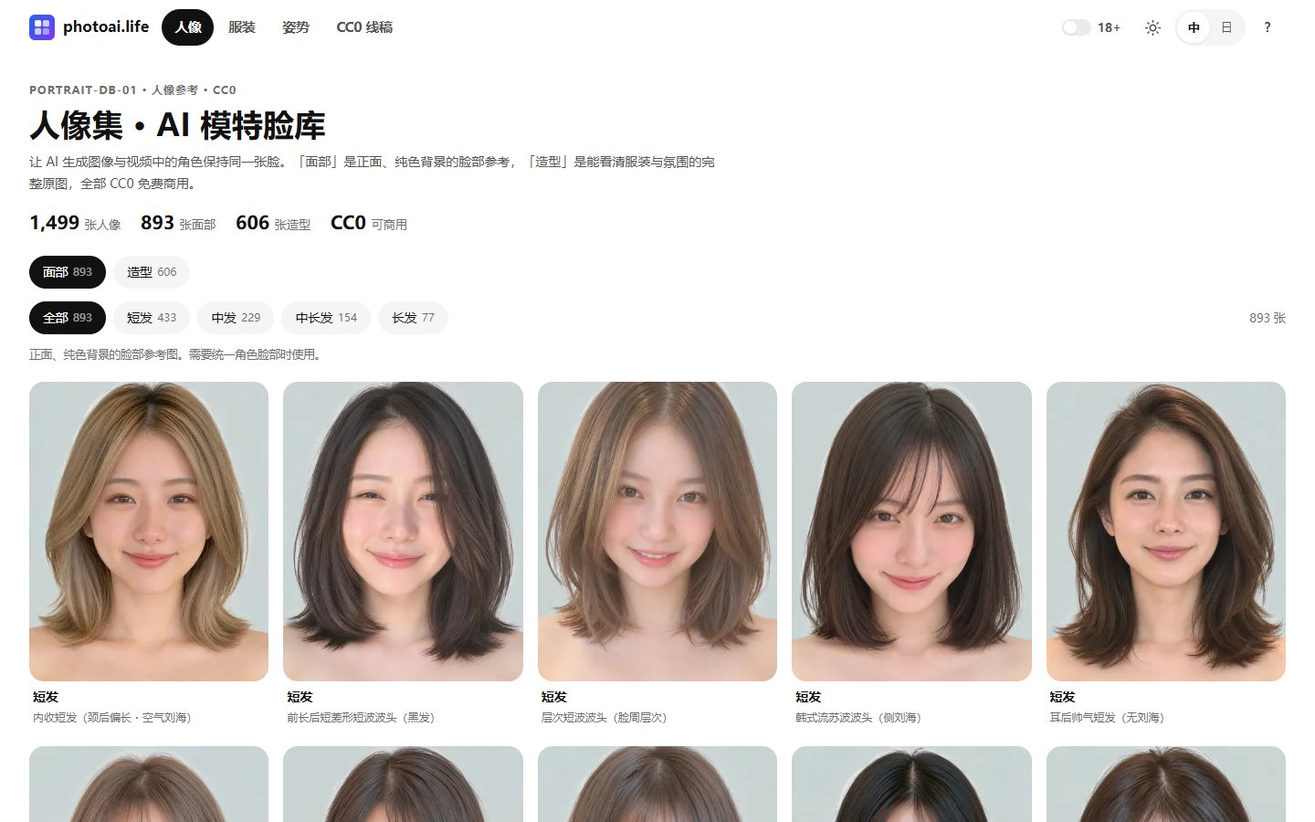
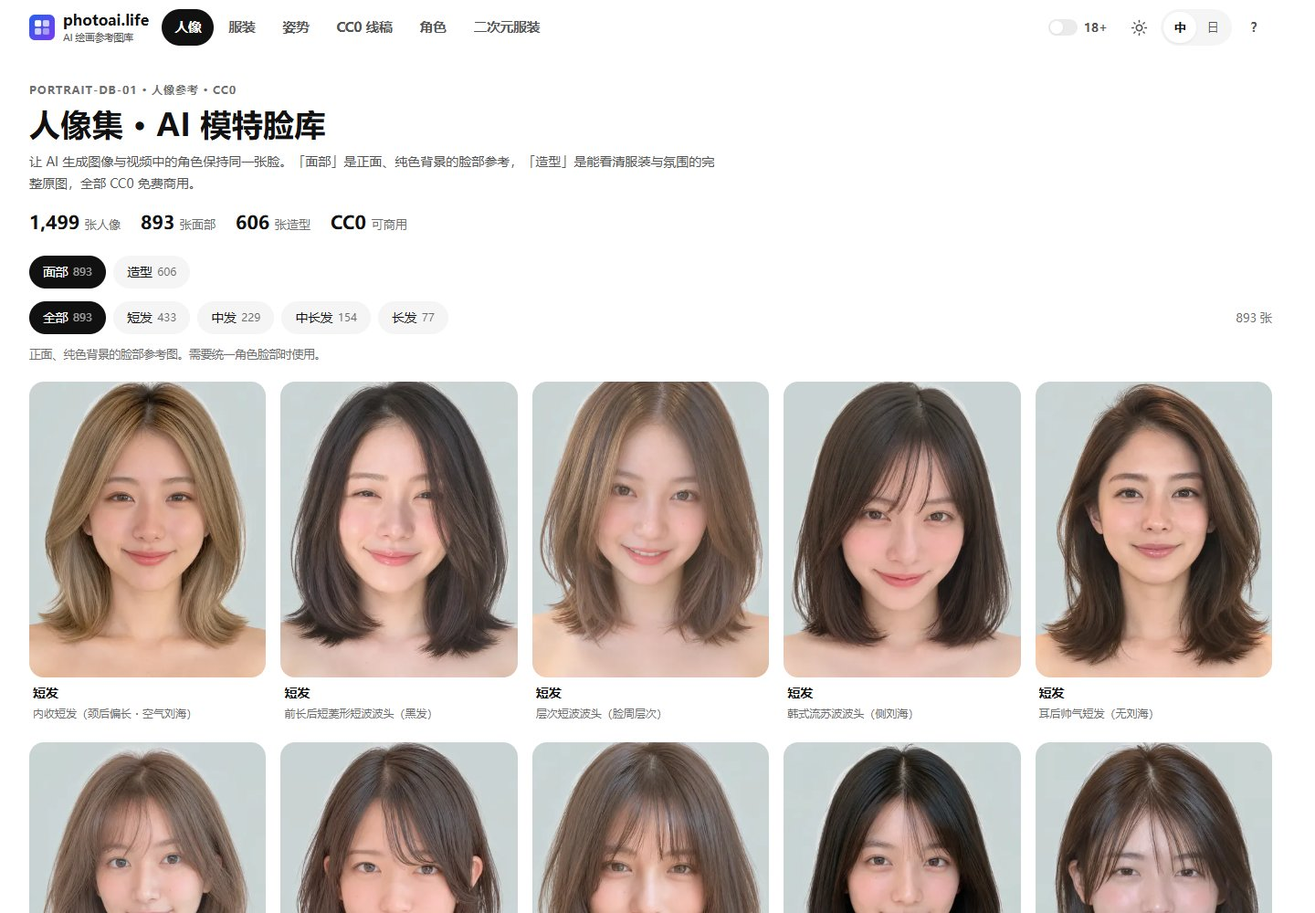
docs: refresh all gallery screenshots and multilingual references
Capture the current public interfaces with 18+ disabled and no added blur. Refresh the hub and existing galleries, add Shisei, Character and Anime Costume views, and keep standalone screenshot sources in docs.

Update Chinese, English and Japanese catalog totals, source credits, remote-image behavior and deployment wording. Clarify the distinction between UI screenshots and gallery image assets.

diff --git a/README_ja.md b/README_ja.md
@@ -6,7 +6,7 @@
 
 ポートレート · ポーズ（線画とデプス） · 衣装 · CC0 ポーズ線画 · キャラ参考画像集 · アニメ衣装集 · 中国語 / 日本語 · ライト / ダーク
 
-ローカル画像ファイル 15,241 個（サイズ違いを含む）。キャラDB は基本 843 件と髪色違い 184 件を別に収録し、リモート画像はファイル総数に含めません。
+ローカル画像ファイル 15,241 個（サイズ違いを含む）。キャラDB は基本 843 件と髪色違い 184 件、アニメ衣装集は 1,320 着（初期表示 984 着）を別に収録。両リモートギャラリーの画像はファイル総数に含めません。
 
 [![CI](https://github.com/Brilliant666/ai-image-gallery/actions/workflows/ci.yml/badge.svg)](https://github.com/Brilliant666/ai-image-gallery/actions/workflows/ci.yml)
 [![online](https://img.shields.io/badge/online-photoai.life-2563eb?style=flat-square)](https://photoai.life/)
@@ -26,7 +26,7 @@
 ![トップページ](docs/screenshots/hub-light.jpg)
 
 <details>
-<summary>📷 その他のスクリーンショット：ポートレート・ポーズ・デプス・衣装</summary>
+<summary>📷 全ギャラリー：ポートレート・ポーズ・デプス・衣装・Shisei・キャラDB・アニメ衣装</summary>
 
 ![ポートレート一覧](docs/screenshots/portrait-grid.jpg)
 
@@ -42,7 +42,15 @@
 
 ![衣装 ライトボックス](docs/screenshots/costume-lightbox.jpg)
 
-スクリーンショットは UI 説明のため公開サイトから撮影したものです。素材の著作権は各原作者に帰属します。スクリーンショットから素材を切り出して利用しないでください。
+![Shisei CC0 線画](docs/screenshots/shisei-grid.jpg)
+
+![キャラDB の髪型とカードごとの髪色](docs/screenshots/character-grid.jpg)
+
+![アニメ衣装集の一般公開目録](docs/screenshots/costume-anime-grid.jpg)
+
+<img src="docs/screenshots/costume-anime-mobile.jpg" alt="アニメ衣装集のモバイル表示" width="390">
+
+2026-11-02 にローカルビルドのプレビューから撮影。18+ を無効にした一般公開内容を表示し、追加のぼかしは施していません。公開サイトのデプロイ状況を示すものではありません。素材の著作権は各原作者に帰属します。スクリーンショットから素材を切り出して利用しないでください。範囲と更新方法は [スクリーンショット説明](docs/screenshots/README.md) を参照してください。
 
 </details>
 
@@ -79,11 +87,11 @@
 
 別の出典から 1,320 着、8 カテゴリ・86 タグを収録。同じ番号でも既存の衣装集 1,407 着とは異なる目録です。ランジェリー・セクシーの分類は年齢確認後に表示し、静的ページには掲載しません。画像は元サイトから読み込み、一括取得・ミラーは行いません。
 
-[独立公開リポジトリ](https://github.com/Brilliant666/ai-costume-anime-gallery-cn) に静的ギャラリー、ソース、本サイトへのリンクを用意します。[出典条件](sites/costume-anime/NOTICE.md) と [エクスポート手順](docs/COSTUME_ANIME_STANDALONE.md) を参照してください。新入口はこの PR のマージ後、別途デプロイして公開します。
+[独立公開リポジトリ](https://github.com/Brilliant666/ai-costume-anime-gallery-cn) に静的ギャラリー、ソース、本サイトへのリンクを用意します。[出典条件](sites/costume-anime/NOTICE.md) と [エクスポート手順](docs/COSTUME_ANIME_STANDALONE.md) を参照してください。リポジトリ更新と本番デプロイは別工程です。公開版は実際のデプロイ内容に依存します。
 
 ## クイックスタート
 
-このリポジトリに素材画像ファイルは含まれていません。`tools/fetch.py` はローカル配信サイトの画像を取得しますが、キャラDB とアニメ衣装集（`imageMode: "remote"`）は明示的にスキップします。サムネイル・原画像・線画のダウンロードやミラーは行いません。ページ・元データ・manifest はローカルに保持し、画像は元サイトの URL を直接参照するため `file://` でも接続が必要です。**Python 3.8+** が必要です。ライトボックス用の中サイズ画像を作る `tools/mid.py` だけは Pillow（`pip install pillow`）も必要で、他のスクリプトは標準ライブラリのみで動きます。
+ギャラリーの素材画像は梱包しません。`docs/screenshots/` は UI 紹介用のスクリーンショットのみです。`tools/fetch.py` はローカル配信サイトの画像を取得しますが、キャラDB とアニメ衣装集（`imageMode: "remote"`）は明示的にスキップします。サムネイル・原画像・線画のダウンロードやミラーは行いません。ページ・元データ・manifest はローカルに保持し、画像は元サイトの URL を直接参照するため `file://` でも接続が必要です。**Python 3.8+** が必要です。ライトボックス用の中サイズ画像を作る `tools/mid.py` だけは Pillow（`pip install pillow`）も必要で、他のスクリプトは標準ライブラリのみで動きます。
 
 ```bash
 git clone https://github.com/Brilliant666/ai-image-gallery.git
@@ -121,7 +129,7 @@ python tools/serve.py      # http://127.0.0.1:8080/ でプレビュー
 
 ## 画像の読み込み
 
-ローカル配信ギャラリーは通常 3 段階です。グリッドはサムネイル、ライトボックスは中サイズ、原寸はダウンロード時のみ使います。キャラDB は元サイトのサムネイル・原画像・線画を参照し、`tiers: []` と `imageDirs: []` で取得・画像パッケージ化を無効にします。
+ローカル配信ギャラリーは通常 3 段階です。グリッドはサムネイル、ライトボックスは中サイズ、原寸はダウンロード時のみ使います。キャラDB は元サイトのサムネイル・原画像・線画を参照します。アニメ衣装集は元サイトのサムネイル・プレビュー・PNG リンクを使います。両方とも `tiers: []` と `imageDirs: []` でローカル取得と画像パッケージ化を無効にします。
 
 | 段階 | ポートレート | ポーズ | デプス | 衣装 |
 | --- | ---: | ---: | ---: | ---: |
@@ -129,7 +137,7 @@ python tools/serve.py      # http://127.0.0.1:8080/ でプレビュー
 | 中サイズ | 約 150 KB | 約 33 KB | 約 10 KB | 約 90 KB |
 | 原寸 | 約 3.2 MB | 約 450 KB | 約 95 KB | 約 1 MB |
 
-以下の先読みと中サイズ画像の処理はローカル配信ギャラリーに適用します。キャラDB の詳細は元サイトの原画像を直接読み込みます。
+以下の先読みと中サイズ画像の処理はローカル配信ギャラリーに適用します。キャラDB の詳細は元サイトの原画像を直接読み込みます。アニメ衣装集は選択中のプレビューだけを読み込み、隣の大画像を先読みしません。原寸 PNG はリンクから元サイトで開きます。
 
 - ライトボックスは鮮明なサムネイルをすぐ表示し、中サイズが届いたらフェードインします。画像を切り替えると前の画像はすぐ消えます。
 - カードに 120 ms ホバー、タップ開始、キーボードフォーカスで中サイズを先読みします。開いた後は前後の画像も先読みします。
@@ -165,7 +173,7 @@ ai-image-gallery/
 └── docs/               # ドキュメントとスクリーンショット
 ```
 
-画像は git に入れません。6.8 GB のバイナリは clone のたびに重く、多くのサイトのライセンスでも認められていません。`release.py` は 20,751 個の画像ファイルを `dist/` にハードリンクするため、同じファイルシステム上なら容量は増えません。
+ギャラリーの素材画像は git に入れません（文書の UI スクリーンショットは除く）。6.8 GB のバイナリは clone を重くし、多くの出典では画像の再配布も禁じています。`release.py` は 20,751 個の画像ファイルを `dist/` にハードリンクするため、同じファイルシステム上なら容量は増えません。
 
 ## ドキュメント
 
@@ -180,6 +188,6 @@ ai-image-gallery/
 | コード：`tools/`、`hub/`、`shared/`、各サイトの `scripts/`、`index.html` 内の HTML/CSS/JS | [MIT](LICENSE) |
 | 画像素材 | サイトごとに異なる。`sites/<id>/NOTICE.md` を参照 |
 | 本サイト独自の中国語訳（`data/` とキャラDB の中国語名称表） | CC BY 4.0 |
-| キャラDB の元の目録データと画像 | 原作者の条件が適用され、本サイトでは再ライセンスしません。[NOTICE](sites/character/NOTICE.md) を参照 |
+| キャラDB とアニメ衣装集の元の目録フィールド・キーワード・画像 | 原作者の条件が適用され、本サイトでは再ライセンスしません。[キャラDB](sites/character/NOTICE.md) · [アニメ衣装集](sites/costume-anime/NOTICE.md) を参照 |
 
-素材は各元サイトによるものです。ポートレート集：[あぎ](https://x.com/agi_aibusi)（[元サイト](https://ai-portrait-gallery.pages.dev/)）。ポーズ集・デプス ポーズ集・衣装集：[ギア](https://x.com/giaaibusi)（[ポーズ](https://ai-pose-gallery.pages.dev/) · [デプス](https://ai-pose-depth-gallery.pages.dev/) · [衣装](https://ai-costume-gallery.pages.dev/)）。Shisei の線画は [wquguru/shisei](https://github.com/wquguru/shisei)（CC0）より。キャラDB は [たき AI](https://x.com/taki_auto) の [キャラ組み立てDB](https://charadb-2fi.pages.dev/) を出典とし、画像は元サイトからのみ読み込みます。本プロジェクトは個人学習目的の中国語インデックスです。
+素材は各元サイトによるものです。ポートレート集：[あぎ](https://x.com/agi_aibusi)（[元サイト](https://ai-portrait-gallery.pages.dev/)）。ポーズ集・デプス ポーズ集・衣装集・アニメ衣装集：[ギア](https://x.com/giaaibusi)（[ポーズ](https://ai-pose-gallery.pages.dev/) · [デプス](https://ai-pose-depth-gallery.pages.dev/) · [衣装](https://ai-costume-gallery.pages.dev/) · [アニメ衣装](https://ai-costume-anime-gallery.pages.dev/)）。Shisei の線画は [wquguru/shisei](https://github.com/wquguru/shisei)（CC0）より。キャラDB は [たき AI](https://x.com/taki_auto) の [キャラ組み立てDB](https://charadb-2fi.pages.dev/) を出典とし、画像は元サイトからのみ読み込みます。本プロジェクトは個人学習目的の中国語インデックスです。

diff --git a/README_en.md b/README_en.md
@@ -6,7 +6,7 @@
 
 Portrait · Pose (line art and depth) · Costume · CC0 Pose Line Art · Character · Anime Costume · Chinese / Japanese UI · Light / Dark
 
-15,241 locally hosted image files (including size variants); Character adds 843 base entries and 184 hair-color variants. Its remote images are excluded from the file total.
+15,241 locally hosted image files (including size variants); Character adds 843 base entries and 184 hair-color variants; Anime Costume adds 1,320 outfits (984 visible by default). Images from both remote galleries are excluded from the file total.
 
 [![CI](https://github.com/Brilliant666/ai-image-gallery/actions/workflows/ci.yml/badge.svg)](https://github.com/Brilliant666/ai-image-gallery/actions/workflows/ci.yml)
 [![online](https://img.shields.io/badge/online-photoai.life-2563eb?style=flat-square)](https://photoai.life/)
@@ -26,7 +26,7 @@ Portrait · Pose (line art and depth) · Costume · CC0 Pose Line Art · Charact
 ![Hub](docs/screenshots/hub-light.jpg)
 
 <details>
-<summary>📷 More screenshots: portraits, poses, depth maps, costumes</summary>
+<summary>📷 All galleries: Portrait, Pose, Depth, Costume, Shisei, Character and Anime Costume</summary>
 
 ![Portrait grid](docs/screenshots/portrait-grid.jpg)
 
@@ -42,7 +42,15 @@ Portrait · Pose (line art and depth) · Costume · CC0 Pose Line Art · Charact
 
 ![Costume lightbox](docs/screenshots/costume-lightbox.jpg)
 
-Screenshots are taken from the live site to show the UI. The artwork belongs to its original authors; do not crop images out of the screenshots for other use.
+![Shisei CC0 line art](docs/screenshots/shisei-grid.jpg)
+
+![Character hairstyles and per-card hair colors](docs/screenshots/character-grid.jpg)
+
+![Anime Costume public catalog](docs/screenshots/costume-anime-grid.jpg)
+
+<img src="docs/screenshots/costume-anime-mobile.jpg" alt="Anime Costume mobile layout" width="390">
+
+Captured from a local build preview on 2026-11-02 with 18+ disabled and no added blur. These show the UI, not the production deployment status. The artwork belongs to its original authors; do not crop images out of the screenshots for other use. See [screenshot notes](docs/screenshots/README.md) for scope and updates.
 
 </details>
 
@@ -79,11 +87,11 @@ See [Character notes](sites/character/README.md) for usage and catalog maintenan
 
 A separate source catalog with 1,320 outfits, 8 categories and 86 translated tags. It is separate from the existing 1,407-item Costume gallery even where IDs overlap. Lingerie and sexy categories are hidden until age confirmation and excluded from all static landing pages. Images remain at the source; no batch downloader or image mirror is included.
 
-The [public standalone repository](https://github.com/Brilliant666/ai-costume-anime-gallery-cn) contains a working static gallery, source and links back to photoai.life. See [source terms](sites/costume-anime/NOTICE.md) and [export instructions](docs/COSTUME_ANIME_STANDALONE.md). The new site requires this PR to be merged and deployed separately.
+The [public standalone repository](https://github.com/Brilliant666/ai-costume-anime-gallery-cn) contains a working static gallery, source and links back to photoai.life. See [source terms](sites/costume-anime/NOTICE.md) and [export instructions](docs/COSTUME_ANIME_STANDALONE.md). Repository updates and production deployment are separate; the live version depends on the deployed release.
 
 ## Quick start
 
-This repo contains no source image files. `tools/fetch.py` downloads images for locally hosted sites and explicitly skips Character and Anime Costume (`imageMode: "remote"`); its thumbnails, originals and line art must not be downloaded or mirrored. Local pages, source data and manifests remain available, while image URLs point directly to the source and need a network connection even under `file://`. Requires **Python 3.8+**. `tools/mid.py`, which generates lightbox previews, also needs Pillow (`pip install pillow`); every other script uses only the standard library.
+This repo does not package gallery image assets; `docs/screenshots/` contains UI demonstrations only. `tools/fetch.py` downloads images for locally hosted sites and explicitly skips Character and Anime Costume (`imageMode: "remote"`); their images are loaded directly from the source, without local fetching or mirroring. Local pages, source data and manifests remain available, while image URLs point directly to the source and need a network connection even under `file://`. Requires **Python 3.8+**. `tools/mid.py`, which generates lightbox previews, also needs Pillow (`pip install pillow`); every other script uses only the standard library.
 
 ```bash
 git clone https://github.com/Brilliant666/ai-image-gallery.git
@@ -121,7 +129,7 @@ Check the result through `serve.py`, not by opening `dist/index.html` directly: 
 
 ## Image loading
 
-Locally hosted galleries normally have three tiers: thumbnails for the grid, previews for the lightbox, originals for download only. Character uses remote source thumbnails, originals and optional line art; `tiers: []` and `imageDirs: []` disable local fetching and image packaging.
+Locally hosted galleries normally have three tiers: thumbnails for the grid, previews for the lightbox, originals for download only. Character uses source-hosted thumbnails, originals and optional line art. Anime Costume uses source-hosted thumbnails, previews and PNG links. Both use `tiers: []` and `imageDirs: []` to disable local fetching and image packaging.
 
 | Tier | Portrait | Pose | Pose Depth | Costume |
 | --- | ---: | ---: | ---: | ---: |
@@ -129,7 +137,7 @@ Locally hosted galleries normally have three tiers: thumbnails for the grid, pre
 | Preview | ~150 KB | ~33 KB | ~10 KB | ~90 KB |
 | Original | ~3.2 MB | ~450 KB | ~95 KB | ~1 MB |
 
-The following preview and prefetch behavior applies to locally hosted galleries. Character loads source originals directly in its detail view.
+The following preview and prefetch behavior applies to locally hosted galleries. Character loads source originals directly in its detail view. Anime Costume loads only the selected preview, without prefetching adjacent large images; its original PNG opens through a source-site link.
 
 - The lightbox shows the sharp thumbnail at once and fades in the preview when it arrives. Switching images hides the previous one immediately.
 - Previews are prefetched after 120 ms of hover, on pointer down, or on keyboard focus; once open, the next and previous images are prefetched too.
@@ -165,7 +173,7 @@ ai-image-gallery/
 └── docs/               # documentation and screenshots
 ```
 
-Images stay out of git: 6.8 GB of binaries would make every clone huge, and most site licenses do not allow it. `release.py` hard-links 20,751 image files into `dist/`, which costs no extra disk on the same file system.
+Gallery image assets stay out of git, apart from UI screenshots in the docs: 6.8 GB of binaries would make every clone huge, and most source terms prohibit image redistribution. `release.py` hard-links 20,751 image files into `dist/`, which costs no extra disk on the same file system.
 
 ## Documentation
 
@@ -180,6 +188,6 @@ The deployment guide and adding-a-site guide are in Chinese.
 | Code: `tools/`, `hub/`, `shared/`, each site's `scripts/`, and the HTML/CSS/JS in `index.html` | [MIT](LICENSE) |
 | Images | Differs per site, see `sites/<id>/NOTICE.md` |
 | Independently written Chinese translations in `data/` and the Character name map | CC BY 4.0 |
-| Character source catalog fields and images | Original author terms; not relicensed by this repository. See [NOTICE](sites/character/NOTICE.md) |
+| Source catalog fields, keywords and images for Character and Anime Costume | Original author terms; not relicensed by this repository. See [Character](sites/character/NOTICE.md) · [Anime Costume](sites/costume-anime/NOTICE.md) |
 
-Images come from the original sites. Portrait by [あぎ](https://x.com/agi_aibusi) ([original](https://ai-portrait-gallery.pages.dev/)); Pose, Pose Depth and Costume by [ギア](https://x.com/giaaibusi) ([pose](https://ai-pose-gallery.pages.dev/) · [pose depth](https://ai-pose-depth-gallery.pages.dev/) · [costume](https://ai-costume-gallery.pages.dev/)). Shisei line art comes from [wquguru/shisei](https://github.com/wquguru/shisei) (CC0). Character comes from [たき AI](https://x.com/taki_auto)'s [キャラ組み立てDB](https://charadb-2fi.pages.dev/), with images loaded only from the source. This project is a personal Chinese-language index for learning.
+Images come from the original sites. Portrait by [あぎ](https://x.com/agi_aibusi) ([original](https://ai-portrait-gallery.pages.dev/)); Pose, Pose Depth, Costume and Anime Costume by [ギア](https://x.com/giaaibusi) ([pose](https://ai-pose-gallery.pages.dev/) · [pose depth](https://ai-pose-depth-gallery.pages.dev/) · [costume](https://ai-costume-gallery.pages.dev/) · [anime costume](https://ai-costume-anime-gallery.pages.dev/)). Shisei line art comes from [wquguru/shisei](https://github.com/wquguru/shisei) (CC0). Character comes from [たき AI](https://x.com/taki_auto)'s [キャラ組み立てDB](https://charadb-2fi.pages.dev/), with images loaded only from the source. This project is a personal Chinese-language index for learning.

diff --git a/README.md b/README.md
@@ -6,7 +6,7 @@
 
 人像 · 姿势（线稿与深度图） · 服装 · CC0 姿势线稿 · 二次元角色库 · 二次元服装库 · 中日双语 · 浅色 / 深色
 
-15,241 个本地托管图片文件（含不同尺寸）；角色库另有 843 个基础条目 + 184 个发色变体，远程图片不计入文件总数。
+15,241 个本地托管图片文件（含不同尺寸）；角色库另有 843 个基础条目 + 184 个发色变体，二次元服装库另有 1,320 套（默认显示 984 套）。两个远程图库的图片均不计入文件总数。
 
 [![CI](https://github.com/Brilliant666/ai-image-gallery/actions/workflows/ci.yml/badge.svg)](https://github.com/Brilliant666/ai-image-gallery/actions/workflows/ci.yml)
 [![online](https://img.shields.io/badge/online-photoai.life-2563eb?style=flat-square)](https://photoai.life/)
@@ -26,7 +26,7 @@
 ![入口页](docs/screenshots/hub-light.jpg)
 
 <details>
-<summary>📷 更多截图：人像、姿势、深度姿势、服装</summary>
+<summary>📷 全部图库截图：人像、姿势、深度图、服装、Shisei、角色、二次元服装</summary>
 
 ![人像集 · 网格](docs/screenshots/portrait-grid.jpg)
 
@@ -42,7 +42,15 @@
 
 ![服装集 · 灯箱](docs/screenshots/costume-lightbox.jpg)
 
-截图来自线上页面，用于演示界面。素材著作权归各原作者所有，不能从截图中裁取素材另作他用。
+![Shisei · CC0 姿势线稿](docs/screenshots/shisei-grid.jpg)
+
+![二次元角色库 · 发型与独立发色](docs/screenshots/character-grid.jpg)
+
+![二次元服装库 · 默认非成人目录](docs/screenshots/costume-anime-grid.jpg)
+
+<img src="docs/screenshots/costume-anime-mobile.jpg" alt="二次元服装库 · 手机布局" width="390">
+
+截图于 2026-11-02 从本地构建预览拍摄，展示默认关闭 18+ 的公开内容，未额外模糊处理；不表示线上部署状态。素材著作权归各原作者所有，不能从截图中裁取素材另作他用。截图范围与更新方式见 [截图说明](docs/screenshots/README.md)。
 
 </details>
 
@@ -80,11 +88,11 @@
 
 独立来源的 1,320 套二次元服装，不能与原有 1,407 套服装按相同编号合并。8 个分类、86 个英文标签使用中日双语与组合筛选，内衣和性感类默认隐藏且不进入落地页。图片始终从原站读取，目录搜索可离线使用。
 
-[独立公开库](https://github.com/Brilliant666/ai-costume-anime-gallery-cn) 提供单库源码、静态页面和返回本站的入口；源站字段不重新许可，详见 [来源说明](sites/costume-anime/NOTICE.md)。导出与维护见 [独立库流程](docs/COSTUME_ANIME_STANDALONE.md)。新入口随本 PR 合并和另行部署后上线。
+[独立公开库](https://github.com/Brilliant666/ai-costume-anime-gallery-cn) 提供单库源码、静态页面和返回本站的入口；源站字段不重新许可，详见 [来源说明](sites/costume-anime/NOTICE.md)。导出与维护见 [独立库流程](docs/COSTUME_ANIME_STANDALONE.md)。仓库更新与生产部署独立；线上版本以实际部署为准。
 
 ## 快速开始
 
-本仓库不含素材图片文件。`tools/fetch.py` 下载本地托管站点的图片，遇到 `imageMode: "remote"` 的角色库和二次元服装库会明确跳过，不下载或镜像其原图、缩略图或线稿。角色库保留本地页面、源数据和 manifest，图片 URL 直接指向原站；从 `file://` 打开也需要联网加载图片。需要 **Python 3.8+**。生成中图的 `tools/mid.py` 另需 Pillow（`pip install pillow`），其余脚本只用标准库。
+本仓库不打包图库素材图片；`docs/screenshots/` 仅保存界面演示截图。`tools/fetch.py` 下载本地托管站点的图片，遇到 `imageMode: "remote"` 的角色库和二次元服装库会明确跳过，不下载或镜像其原图、缩略图或线稿。两个远程图库保留本地页面、源数据和 manifest，图片 URL 直接指向原站；从 `file://` 打开也需要联网加载图片。需要 **Python 3.8+**。生成中图的 `tools/mid.py` 另需 Pillow（`pip install pillow`），其余脚本只用标准库。
 
 ```bash
 git clone https://github.com/Brilliant666/ai-image-gallery.git
@@ -130,7 +138,7 @@ python tools/serve.py      # 预览 http://127.0.0.1:8080/
 | 中图 | 约 150 KB | 约 33 KB | 约 10 KB | 约 90 KB |
 | 原图 | 约 3.2 MB | 约 450 KB | 约 95 KB | 约 1 MB |
 
-以下预取与中图行为适用于本地托管图库；角色库详情直接读取原站图片。
+以下预取与中图行为适用于本地托管图库。角色库详情直接读取原站图片；二次元服装库只加载所选条目的预览，不预取相邻大图，原始 PNG 通过链接在原站打开。
 
 - 灯箱打开时先显示清晰的缩略图，中图到达后淡入；换图时上一张立即隐藏。
 - 鼠标在卡片上停留 120 ms、手指按下或键盘选中时开始预取中图；打开后再预取前后各一张。
@@ -166,7 +174,7 @@ ai-image-gallery/
 └── docs/               # 文档与截图
 ```
 
-图片不进 git：6.8 GB 二进制放进仓库，每次 clone 都要拉一遍，各站授权也不允许。`release.py` 把 20,751 个图片文件硬链接进 `dist/`，同一文件系统下不额外占盘。
+图库素材图片不进 git，文档界面截图除外：6.8 GB 二进制会增加每次 clone 的负担，且多数来源禁止图片再分发。`release.py` 把 20,751 个图片文件硬链接进 `dist/`，同一文件系统下不额外占盘。
 
 ## 文档
 
@@ -179,6 +187,6 @@ ai-image-gallery/
 | 代码：`tools/`、`hub/`、`shared/`、各站 `scripts/`，以及 `index.html` 里的 HTML/CSS/JS | [MIT](LICENSE) |
 | 图片素材 | 各站不同，见 `sites/<id>/NOTICE.md` |
 | 本站独立整理的中文译文（`data/` 及角色库中文短名表） | CC BY 4.0 |
-| 角色库原站目录字段与图片 | 依原作者条件；不随本站代码或译文重新许可，见 [NOTICE](sites/character/NOTICE.md) |
+| 角色库与二次元服装库的原站目录字段、关键词及图片 | 依各原作者条件；不随本站代码或译文重新许可，见 [角色库](sites/character/NOTICE.md) · [二次元服装库](sites/costume-anime/NOTICE.md) |
 
-素材来自各原站：人像集作者 [あぎ](https://x.com/agi_aibusi)（[原站](https://ai-portrait-gallery.pages.dev/)），姿势集、深度姿势集、服装集作者 [ギア](https://x.com/giaaibusi)（[姿势](https://ai-pose-gallery.pages.dev/) · [深度姿势](https://ai-pose-depth-gallery.pages.dev/) · [服装](https://ai-costume-gallery.pages.dev/) · [二次元服装](https://ai-costume-anime-gallery.pages.dev/)）。Shisei 线稿来自 [wquguru/shisei](https://github.com/wquguru/shisei)（CC0）。二次元角色库来自 [たき AI](https://x.com/taki_auto) 的 [キャラ組み立てDB](https://charadb-2fi.pages.dev/)，图片仅由原站加载。本项目是个人学习用途的中文索引。
+素材来自各原站：人像集作者 [あぎ](https://x.com/agi_aibusi)（[原站](https://ai-portrait-gallery.pages.dev/)），姿势集、深度姿势集、服装集、二次元服装库作者 [ギア](https://x.com/giaaibusi)（[姿势](https://ai-pose-gallery.pages.dev/) · [深度姿势](https://ai-pose-depth-gallery.pages.dev/) · [服装](https://ai-costume-gallery.pages.dev/) · [二次元服装](https://ai-costume-anime-gallery.pages.dev/)）。Shisei 线稿来自 [wquguru/shisei](https://github.com/wquguru/shisei)（CC0）。二次元角色库来自 [たき AI](https://x.com/taki_auto) 的 [キャラ組み立てDB](https://charadb-2fi.pages.dev/)，图片仅由原站加载。本项目是个人学习用途的中文索引。

diff --git a/docs/screenshots/README.md b/docs/screenshots/README.md
@@ -1,0 +1,15 @@
+# 界面截图
+
+2026-11-02 更新，拍摄基础为主仓库合并第七图库后的本地构建预览（`ff79cc5`），不是生产站发布记录。
+
+- `hub-light.jpg`：六个逻辑图库的首页，含七个物理站点入口（姿势与深度图共享一个图库）。
+- `portrait-*.jpg`、`pose-*.jpg`、`pose-depth-grid.jpg`、`costume-*.jpg`：更新后的旧图库网格、筛选或灯箱，包含最新全站导航。
+- `shisei-grid.jpg`、`character-grid.jpg`：CC0 线稿与角色发型、卡片独立发色。
+- `costume-anime-grid.jpg`、`costume-anime-mobile.jpg`：主站二次元服装目录，桌面 1440×1000、手机 390×844。
+- `costume-anime-standalone/`：实际独立导出页面的 `grid.jpg`、`filter.jpg`、`mobile.jpg`，导出到公开单库的 `docs/screenshots/`。筛选截图使用 `ivory` + `knit`。
+
+全部截图使用新浏览器上下文、中文界面，18+ 关闭。姿势与深度图展示深色主题，其余使用浅色主题；非成人内容保持正常清晰度，没有添加模糊处理。首页截图为 1440×1900，覆盖两排图库卡片；标签面板截图为 1440×1400，保留筛选结果首排。截图前等待可见图片解码及淡入完成，并检查手机页面无横向溢出。
+
+更新时先构建并组装本地预览，再拍对应界面；独立库须从新导出目录打开，避免把主站全站导航误当成独立库界面。检查每张图片后同步三个语言的 README 引用；更新独立库时还须重新导出，详见 [维护流程](../COSTUME_ANIME_STANDALONE.md)。
+
+截图用于介绍界面。截图内素材著作权与使用条件仍归各原作者，不随代码 MIT 或译文 CC BY 4.0 重新许可，不得从截图裁取素材另用。截图不作为可下载的素材镜像或图片目录。

diff --git a/sites/costume-anime/NOTICE.md b/sites/costume-anime/NOTICE.md
@@ -32,6 +32,6 @@
 
 本站原创代码、中文／日文翻译及原创界面文字适用项目代码与翻译许可。原始元数据及图片保留原站使用条件；公开可见不表示它们被独立再许可为 MIT、CC0 或其他开放数据许可。
 
-本库是资源参考索引，没有生成后端或生成功能。只使用原站 HTTPS 图片链接，没有下载、镜像、重新打包、再分发任何图片，也不复制图片制作封面。分享图为原站缩略图 URL。禁止从本索引批量获取原站图片。
+本库是资源参考索引，没有生成后端或生成功能。图库只使用原站 HTTPS 图片链接，不下载、镜像或打包素材图片，也不复制图片制作封面；分享图为原站缩略图 URL。文档中的 `docs/screenshots/` 仅保存默认非成人界面的完整截图，不能从中裁取素材另用，截图内素材也不因此重新许可。禁止从本索引批量获取原站图片。
 
 页面可通过 `file://` 打开并使用内嵌筛选数据，图片仍需联网。336 套内衣和性感分类默认隐藏；公开的 984 套用于分类／标签 SEO 落地页，成人分类与成人缩略图不进入可收录的落地页。
